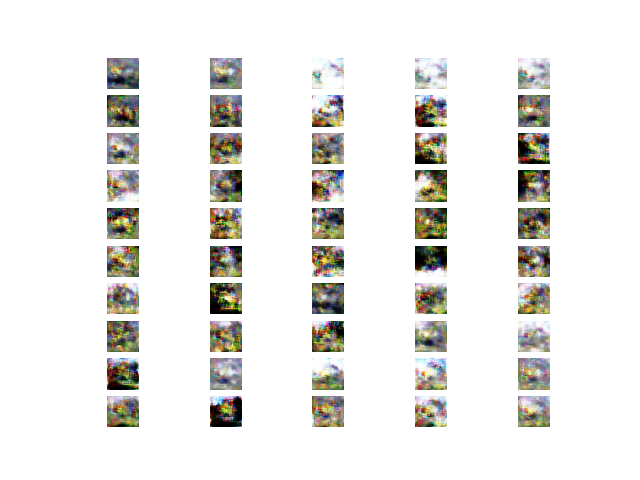
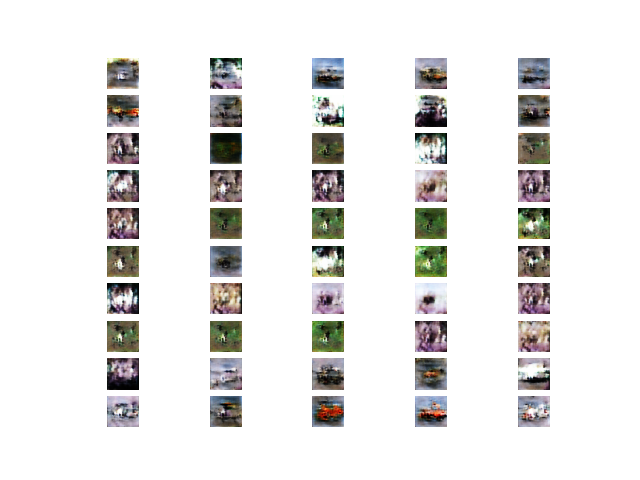
add experience replay, move label injection

diff --git a/conditional_dcgan.py b/conditional_dcgan.py
@@ -6,6 +6,10 @@ from ganbase import GANBase
 from utils import ensure_exists
 
 
+# TODO look at implementing Wasserstein loss?
+# minibatch discrimination
+# https://medium.com/@utk.is.here/training-a-conditional-dc-gan-on-cifar-10-fce88395d610
+
 class CDCGAN(GANBase):
     def __init__(self, img_rows, img_cols, img_channels, img_label_size, noise_size, generator=None,
                  discriminator=None):
@@ -71,62 +75,58 @@ class CDCGAN(GANBase):
         return tf.keras.models.Model(inputs=[noise, img_label], outputs=img)
 
     def build_discriminator(self):
+        img = tf.keras.layers.Input(shape=self.img_shape, name="image")
+
         # Use convolutional network to improve discriminator
-        model = tf.keras.models.Sequential()
-        model.add(tf.keras.layers.Conv2D(32, kernel_size=3, input_shape=self.img_shape, padding='same'))
-        model.add(tf.keras.layers.LeakyReLU(alpha=0.2))
-        model.add(tf.keras.layers.MaxPool2D())
+        hid = tf.keras.layers.Conv2D(32, kernel_size=3, input_shape=self.img_shape, padding='same')(img)
+        hid = tf.keras.layers.LeakyReLU(alpha=0.2)(hid)
+        hid = tf.keras.layers.MaxPool2D()(hid)
         # (None, 14, 14, 32)
 
-        model.add(tf.keras.layers.Conv2D(64, kernel_size=3, padding="same"))
+        hid = tf.keras.layers.Conv2D(64, kernel_size=3, padding="same")(hid)
         # model.add(tf.keras.layers.ZeroPadding2D(padding=((0, 1), (0, 1))))  # used in mnist
-        model.add(tf.keras.layers.BatchNormalization(momentum=0.8))
-        model.add(tf.keras.layers.LeakyReLU(alpha=0.2))
-        model.add(tf.keras.layers.MaxPool2D())
-        model.add(tf.keras.layers.Dropout(0.25))
+        hid = tf.keras.layers.BatchNormalization(momentum=0.8)(hid)
+        hid = tf.keras.layers.LeakyReLU(alpha=0.2)(hid)
+        hid = tf.keras.layers.MaxPool2D()(hid)
+        hid = tf.keras.layers.Dropout(0.25)(hid)
         # (None, 8, 8, 64)
 
-        model.add(tf.keras.layers.Conv2D(128, kernel_size=3, padding="same"))
-        model.add(tf.keras.layers.BatchNormalization(momentum=0.8))
-        model.add(tf.keras.layers.LeakyReLU(alpha=0.2))
-        model.add(tf.keras.layers.MaxPool2D())
-        model.add(tf.keras.layers.Dropout(0.25))
+        hid = tf.keras.layers.Conv2D(128, kernel_size=3, padding="same")(hid)
+        hid = tf.keras.layers.BatchNormalization(momentum=0.8)(hid)
+        hid = tf.keras.layers.LeakyReLU(alpha=0.2)(hid)
+        hid = tf.keras.layers.MaxPool2D()(hid)
+        hid = tf.keras.layers.Dropout(0.25)(hid)
         # (None, 4, 4, 128)
 
-        model.add(tf.keras.layers.Conv2D(256, kernel_size=3, strides=1, padding="same"))
-        model.add(tf.keras.layers.BatchNormalization(momentum=0.8))
-        model.add(tf.keras.layers.LeakyReLU(alpha=0.2))
-        model.add(tf.keras.layers.MaxPool2D())
-        model.add(tf.keras.layers.Dropout(0.25))
+        hid = tf.keras.layers.Conv2D(256, kernel_size=3, strides=1, padding="same")(hid)
+        hid = tf.keras.layers.BatchNormalization(momentum=0.8)(hid)
+        hid = tf.keras.layers.LeakyReLU(alpha=0.2)(hid)
+        hid = tf.keras.layers.MaxPool2D()(hid)
+        hid = tf.keras.layers.Dropout(0.25)(hid)
         # (None, 4, 4, 256)
-        model.add(tf.keras.layers.Flatten())
+        hid = tf.keras.layers.Flatten()(hid)
 
         # small FCN at end of convolution
-        model.add(tf.keras.layers.Dense(32))
-        model.add(tf.keras.layers.LeakyReLU(alpha=0.2))
-        model.add(tf.keras.layers.Dropout(0.25))
-
-        model.add(tf.keras.layers.Dense(16))
-        model.add(tf.keras.layers.LeakyReLU(alpha=0.2))
-        model.add(tf.keras.layers.Dropout(0.25))
-
-        # output
-        model.add(tf.keras.layers.Dense(1, activation='sigmoid'))
-        model.summary()
-
-        img = tf.keras.layers.Input(shape=self.img_shape, name="image")
-        img_label = tf.keras.layers.Input(shape=(1,), dtype="int32", name="label")
+        hid = tf.keras.layers.Dense(32)(hid)
+        hid = tf.keras.layers.LeakyReLU(alpha=0.2)(hid)
+        hid = tf.keras.layers.Dropout(0.25)(hid)
 
         # incorporate label by multiplying image data by embedding, then reshaping and passing to CNN
-        label_embedding = tf.keras.layers.Embedding(self.img_label_size, np.prod(self.img_shape))(img_label)
-        flat_img = tf.keras.layers.Flatten(input_shape=self.img_shape)(img)
+        img_label = tf.keras.layers.Input(shape=(1,), dtype="int32", name="label")
+        label_embedding = tf.keras.layers.Embedding(self.img_label_size, 32)(img_label)
         label_embedding = tf.keras.layers.Flatten()(label_embedding)
-        augmented_img = tf.keras.layers.Multiply()([flat_img, label_embedding])
-        augmented_img = tf.keras.layers.Reshape(self.img_shape)(augmented_img)
+        hid = tf.keras.layers.Multiply()([hid, label_embedding])
 
-        validity = model(augmented_img)
+        hid = tf.keras.layers.Dense(16)(hid)
+        hid = tf.keras.layers.LeakyReLU(alpha=0.2)(hid)
+        hid = tf.keras.layers.Dropout(0.25)(hid)
 
-        return tf.keras.models.Model(inputs=[img, img_label], outputs=[validity])
+        # output
+        validity = tf.keras.layers.Dense(1, activation='sigmoid')(hid)
+
+        model = tf.keras.models.Model(inputs=[img, img_label], outputs=[validity])
+        model.summary()
+        return model
 
     def build_combined(self):
         # Required compiled G and D
@@ -158,10 +158,10 @@ class CDCGAN(GANBase):
         ensure_exists(sample_path)
 
         half_batch = int(batch_size / 2)
+        exp_replay = []
 
-        for epoch in range(epochs):
-            epoch += starting_epoch
-
+        epoch = starting_epoch
+        while epoch < epochs:
             # ---------------------
             #  Train Discriminator
             # ---------------------
@@ -175,7 +175,18 @@ class CDCGAN(GANBase):
             noise = np.random.normal(0, 1, (half_batch, self.noise_size))
             gen_imgs = self.generator.predict({"noise": noise, "label": labels})
 
+            # save one random generated image for experience replay
+            r_idx = np.random.randint(0, half_batch)
+            exp_replay.append((gen_imgs[r_idx], labels[r_idx]))
+
             # Train the discriminator
+            # If we have enough points, do experience replay
+            if len(exp_replay) == half_batch:
+                generated_images = np.array([p[0] for p in exp_replay])
+                labels = np.array([p[1] for p in exp_replay])
+                d_loss_replay = self.discriminator.train_on_batch([generated_images, labels],
+                                                                  np.zeros((half_batch, 1)))
+                exp_replay = []
             d_loss_real = self.discriminator.train_on_batch({"image": imgs, "label": labels}, np.ones((half_batch, 1)))
             d_loss_fake = self.discriminator.train_on_batch({"image": gen_imgs, "label": labels},
                                                             np.zeros((half_batch, 1)))
@@ -206,6 +217,7 @@ class CDCGAN(GANBase):
             # save model
             if epoch % save_interval == 0:
                 self.save(f"temp/{epoch}")
+            epoch += 1
 
     def save_sample(self, epoch, path):
         r, c = self.img_label_size, 5
@@ -227,7 +239,7 @@ class CDCGAN(GANBase):
                 axs[i, j].imshow(gen_imgs[cnt, :, :, :])  # , cmap='gray')  (if grayscale)
                 axs[i, j].axis('off')
                 cnt += 1
-        fig.savefig(f"{path}/{epoch}.png")
+        fig.savefig(f"{path}/{epoch}.png", dpi='figure')
         plt.close()
 
 
@@ -256,6 +268,6 @@ if __name__ == '__main__':
     # Rescale -1 to 1
     x_train = (x_train.astype(np.float32) - 127.5) / 127.5
 
-    gan.train(x_train, y_train, epochs=100001, batch_size=32, sample_interval=500,
+    gan.train(x_train, y_train, epochs=30001, batch_size=64, sample_interval=500,
               sample_path="samples/conditional_dcgan_cifar10", save_interval=5000)
     gan.save("models/conditional_dcgan_cifar10")
